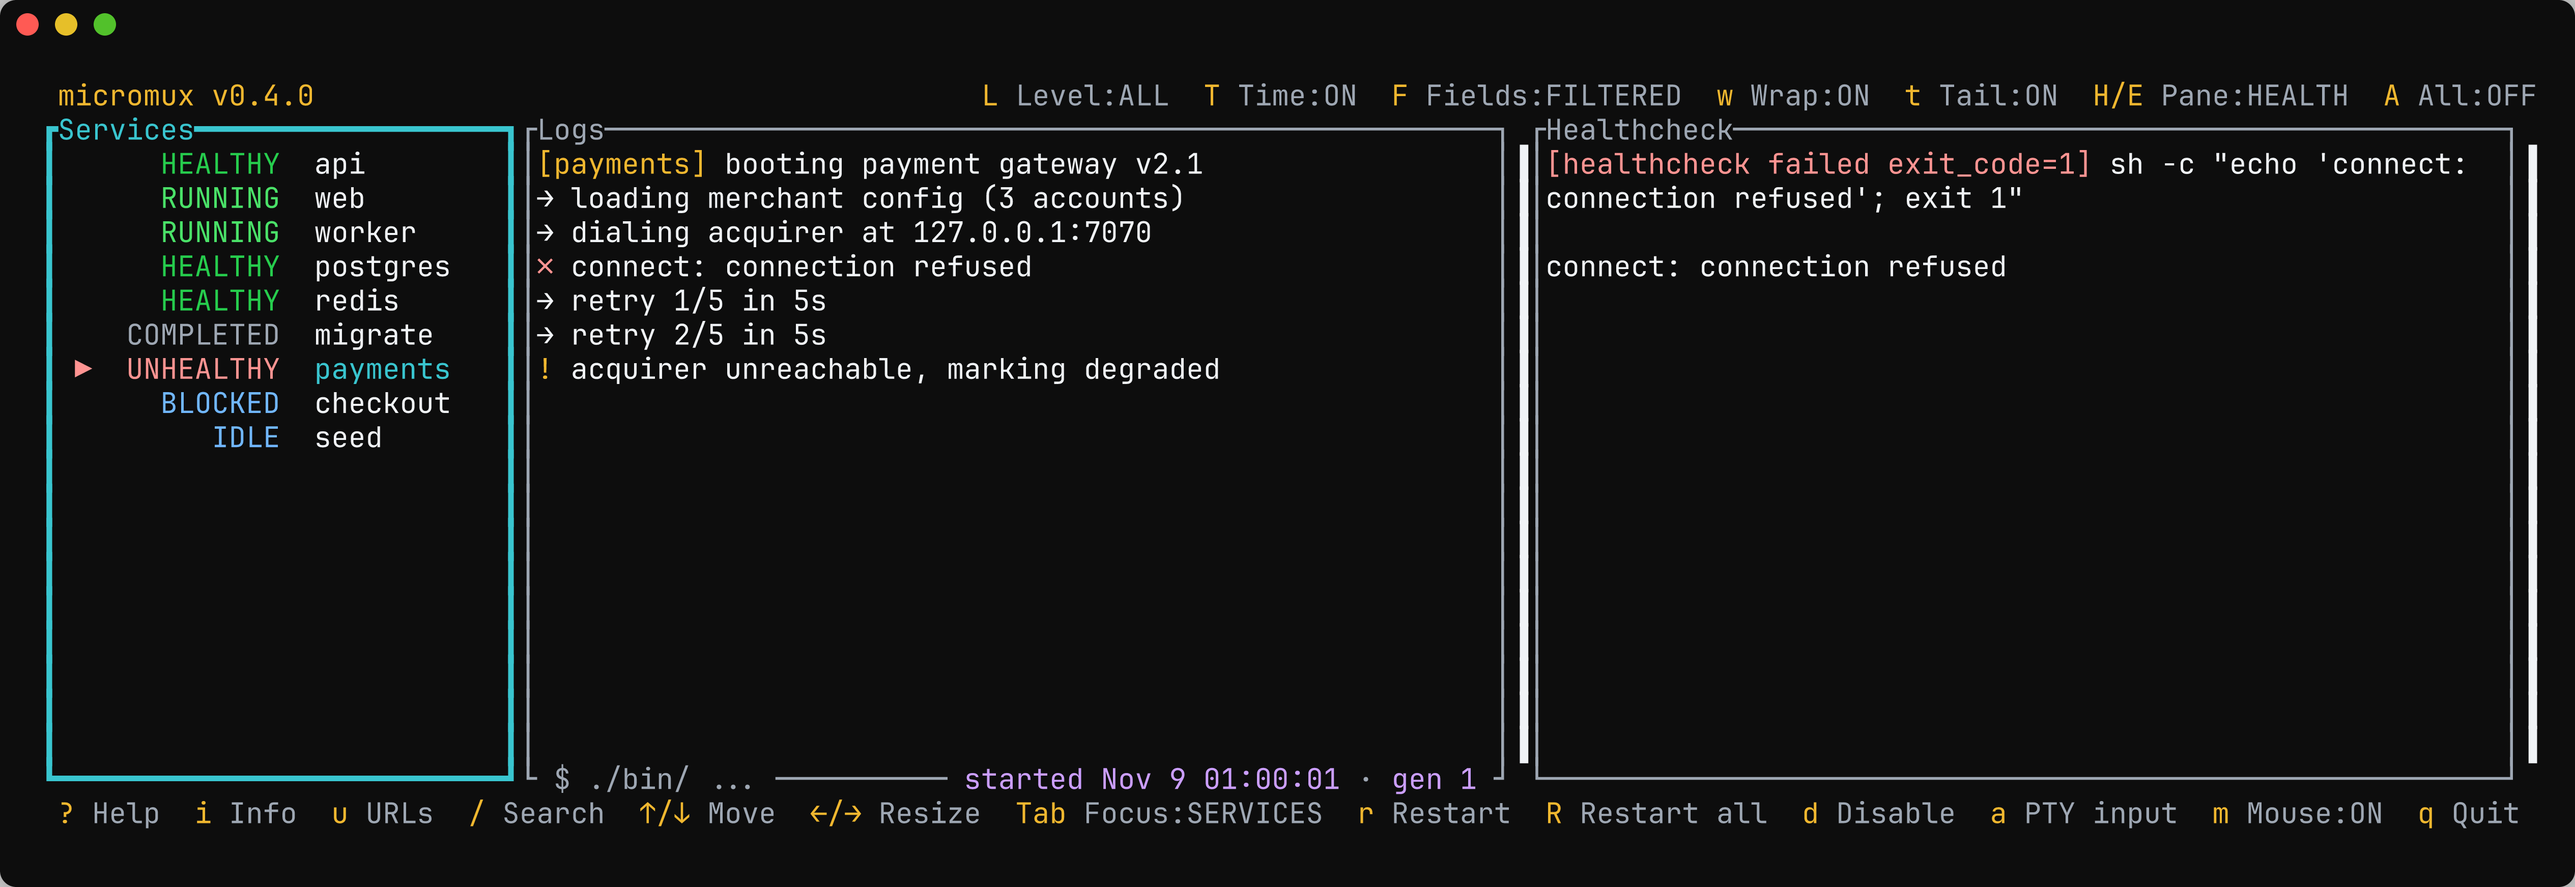
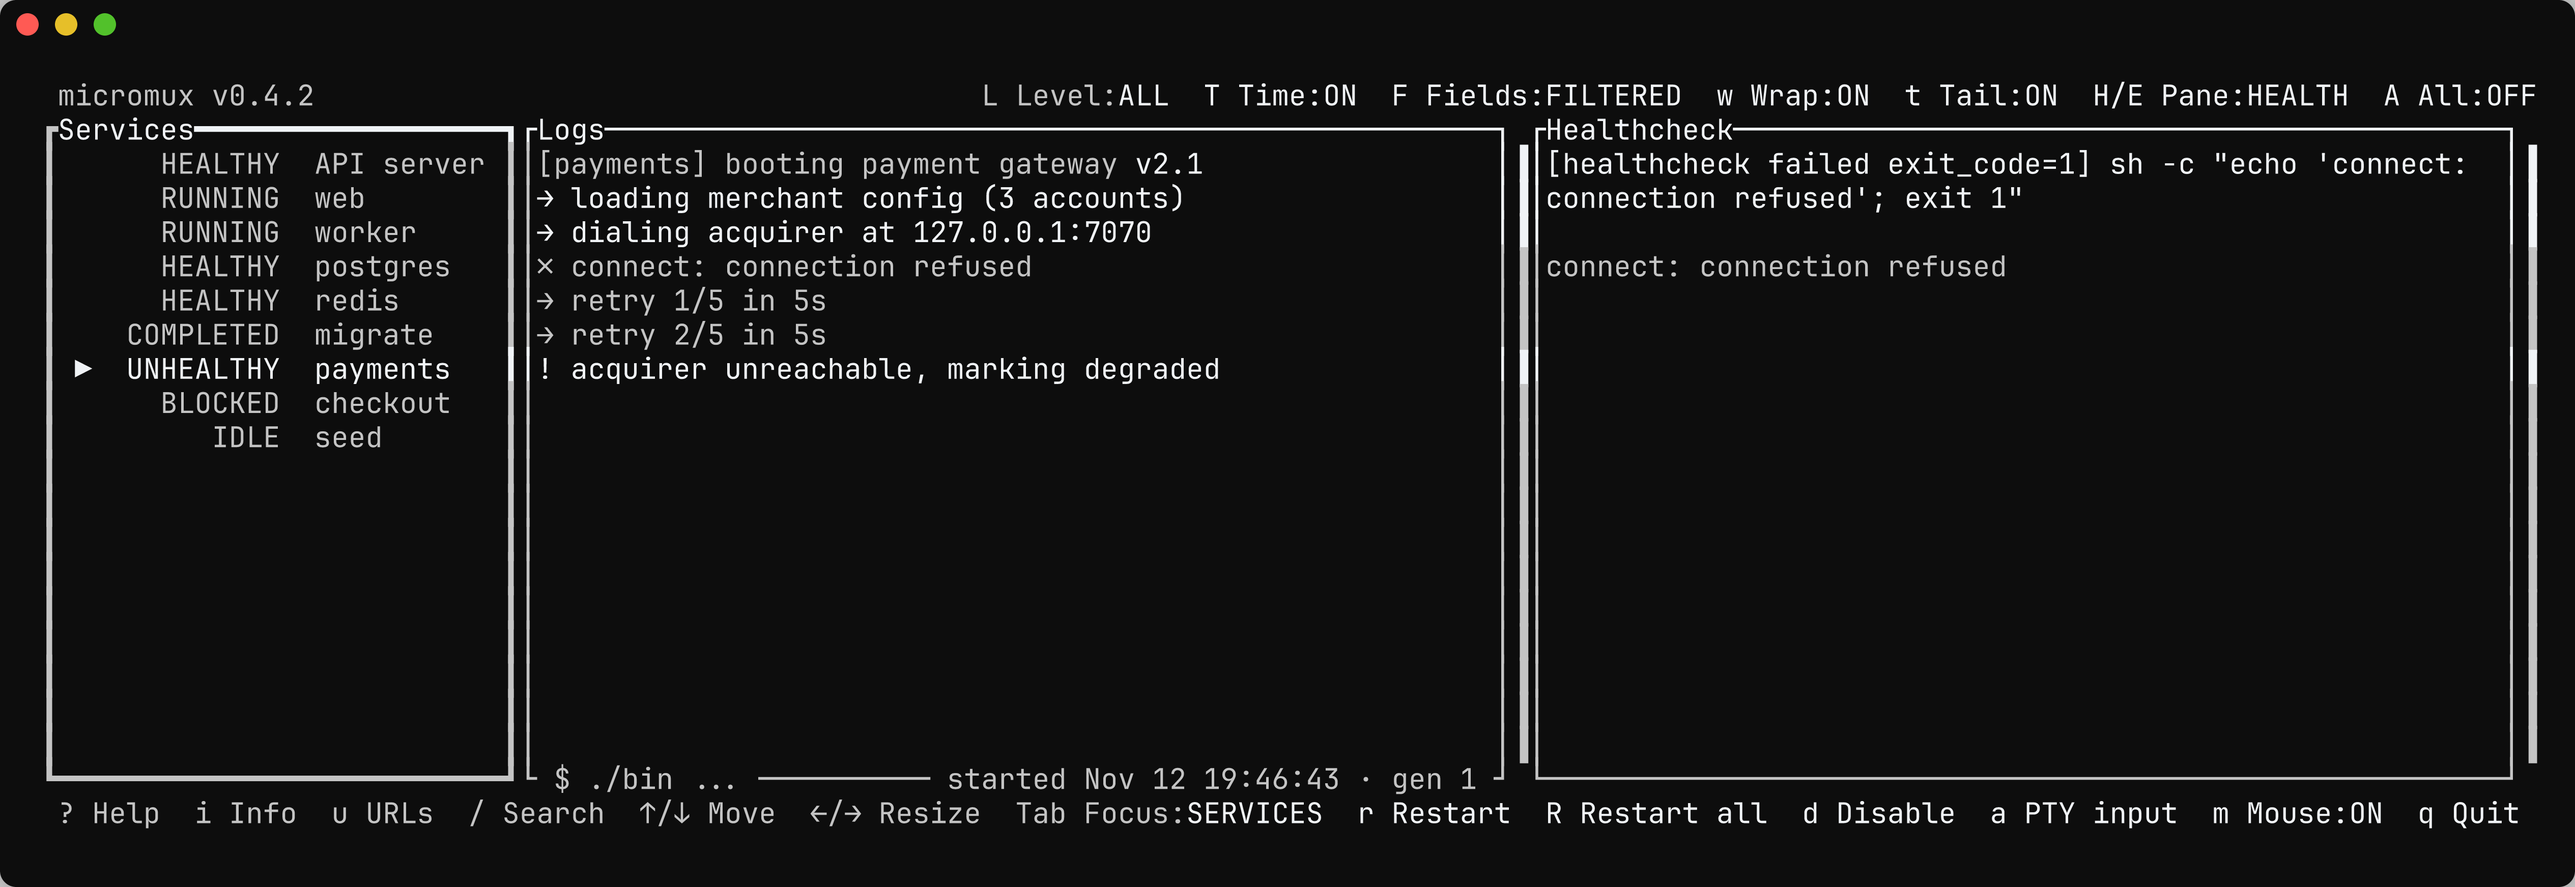
fix(tui): render configured service display names

diff --git a/crates/micromux-tui/src/all_logs/tests.rs b/crates/micromux-tui/src/all_logs/tests.rs
@@ -367,6 +367,99 @@ fn tags_pad_names_to_one_width_and_cut_long_ones_in_the_middle() {
 }
 
 #[test]
+fn display_names_change_tags_without_changing_service_identity_or_merge_order() {
+    let mut services = [
+        service("api", &[(1, 100, "api line")]),
+        service("web", &[(1, 100, "web line")]),
+    ];
+    let [api, web] = &mut services;
+    api.snapshot.name = "Zulu (API)".to_string();
+    web.snapshot.name = "Alpha".to_string();
+    let all_logs = built(&services);
+
+    // Equal timestamps still sort by ID, and display-name widths determine the padding.
+    assert_eq!(
+        lines(&all_logs),
+        ["Zulu (API) │ api line", "Alpha      │ web line"]
+    );
+    assert_eq!(all_logs.names, ["api", "web"]);
+
+    // Identical display names do not merge two services into one identity.
+    let [api, web] = &mut services;
+    api.snapshot.name = "Worker".to_string();
+    web.snapshot.name = "Worker".to_string();
+    assert_eq!(
+        lines(&built(&services)),
+        ["Worker │ api line", "Worker │ web line"]
+    );
+}
+
+#[tokio::test]
+async fn service_rows_and_popups_show_display_names_and_keep_ids_available() -> eyre::Result<()> {
+    let yaml = SERVICES.replace("api:\n", "api:\n    name: API (local)\n");
+    let (mut app, _runner) = app_and_runner(&yaml)?;
+    let shown = screen(&draw(&mut app));
+    assert!(
+        row_text(&draw(&mut app), 2).contains("API (local)"),
+        "{shown}"
+    );
+    assert!(row_text(&draw(&mut app), 3).contains("web"), "{shown}");
+
+    press(&mut app, KeyCode::Char('j'));
+    let frame = draw(&mut app);
+    assert!(row_text(&frame, 2).contains("API (local)"));
+    assert!(row_text(&frame, 3).contains("web"));
+    press(&mut app, KeyCode::Char('k'));
+    press(&mut app, KeyCode::Char('i'));
+    let shown = screen(&draw(&mut app));
+    assert!(shown.contains("Service · API (local)"), "{shown}");
+    assert!(
+        shown
+            .lines()
+            .any(|line| line.contains("ID") && line.contains("api")),
+        "{shown}"
+    );
+    press(&mut app, KeyCode::Esc);
+    press(&mut app, KeyCode::Char('L'));
+    let shown = screen(&draw(&mut app));
+    assert!(shown.contains("Level · API (local)"), "{shown}");
+    assert_eq!(
+        app.state
+            .current_service()
+            .map(|service| service.snapshot.id.as_str()),
+        Some("api")
+    );
+    Ok(())
+}
+
+#[tokio::test]
+async fn status_rename_refreshes_retained_combined_log_tags() -> eyre::Result<()> {
+    let (mut app, _runner) = app_and_runner(SERVICES)?;
+    press(&mut app, KeyCode::Char('A'));
+    set_lines(&mut app, 0, &[(1, 100, "retained line")])?;
+    assert!(screen(&draw(&mut app)).contains("api │ retained line"));
+
+    let yaml = SERVICES.replace("api:\n", "api:\n    name: API (renamed)\n");
+    let (renamed, _renamed_runner) = app_and_runner(&yaml)?;
+    app.source = renamed.source;
+    app.apply_change(&micromux::SessionChange {
+        service_id: "api".to_string(),
+        kind: micromux::ChangeKind::Status,
+    });
+
+    let shown = screen(&draw(&mut app));
+    assert!(shown.contains("API (renamed) │ retained line"), "{shown}");
+    assert!(!shown.contains("api │ retained line"), "{shown}");
+    assert_eq!(
+        app.state
+            .current_service()
+            .map(|service| service.snapshot.id.as_str()),
+        Some("api")
+    );
+    Ok(())
+}
+
+#[test]
 fn every_line_of_a_record_is_tagged_and_no_color_bleeds_into_the_next_record() {
     let services = [
         // A live screen is one record of several lines, and this one leaves red set.

diff --git a/crates/micromux-tui/src/render.rs b/crates/micromux-tui/src/render.rs
@@ -1019,6 +1019,9 @@ fn service_info_rows(
     );
 
     let mut rows = info_rows("State", vec![Line::from(state)]);
+    if snapshot.name != snapshot.id {
+        rows.extend(info_rows("ID", vec![snapshot.id.clone()]));
+    }
     if snapshot.config_stale {
         rows.extend(info_rows(
             "Config",
@@ -2287,9 +2290,9 @@ impl App {
                     " ".into(),
                     origin.fg(Color::DarkGray),
                     if index == self.state.selected_service {
-                        service.snapshot.id.as_str().fg(FOCUS_COLOR).bold()
+                        service.snapshot.name.as_str().fg(FOCUS_COLOR).bold()
                     } else {
-                        service.snapshot.id.as_str().into()
+                        service.snapshot.name.as_str().into()
                     },
                 ]);
 
@@ -2471,12 +2474,12 @@ impl App {
         let Some(picker) = &self.level_picker else {
             return;
         };
-        let current = self
+        let service = self
             .state
             .services
             .iter()
-            .find(|service| service.snapshot.id == picker.service_id)
-            .map(crate::state::Service::min_level);
+            .find(|service| service.snapshot.id == picker.service_id);
+        let current = service.map(crate::state::Service::min_level);
         let items = crate::level::LEVEL_CHOICES
             .iter()
             .map(|choice| {
@@ -2489,7 +2492,10 @@ impl App {
             })
             .collect::<Vec<_>>();
 
-        let title = format!(" Level · {} ", picker.service_id);
+        let name = service.map_or(picker.service_id.as_str(), |service| {
+            service.snapshot.name.as_str()
+        });
+        let title = format!(" Level · {name} ");
         let hint = " ↵ select · Esc cancel ";
         let widest_item = items.iter().map(ListItem::width).max().unwrap_or_default();
         let content_width = title
@@ -2535,7 +2541,7 @@ impl App {
                 };
                 let attempts = self.source.healthchecks(&service.snapshot.id);
                 (
-                    format!(" Service · {} ", service.snapshot.id),
+                    format!(" Service · {} ", service.snapshot.name),
                     service_info_rows(
                         &service.snapshot,
                         &|id| {

diff --git a/crates/micromux-tui/src/all_logs/mod.rs b/crates/micromux-tui/src/all_logs/mod.rs
@@ -128,14 +128,14 @@ impl AllLogs {
         let names = &self.names;
         let name_width = services
             .iter()
-            .map(|service| Span::raw(service.snapshot.id.as_str()).width())
+            .map(|service| Span::raw(service.snapshot.name.as_str()).width())
             .max()
             .unwrap_or_default()
             .min(MAX_TAG_NAME_WIDTH);
         self.tags = services
             .iter()
             .zip(numbers)
-            .map(|(service, number)| (*number, tag(&service.snapshot.id, *number, name_width)))
+            .map(|(service, number)| (*number, tag(&service.snapshot.name, *number, name_width)))
             .collect();
         let records = merge(sources(services, numbers, |_| 0)).collect::<Vec<_>>();
         self.ordered = records.windows(2).all(|pair| match pair {
@@ -283,15 +283,15 @@ fn order(names: &[String], key: RecordKey) -> Order<'_> {
     }
 }
 
-/// The spans that lead each line of the service `id` with `number`: its name in its color,
+/// The spans that lead each line of service `number`: its display name in its color,
 /// padded or cut to `name_width` columns, and a separator.
-fn tag(id: &str, number: u32, name_width: usize) -> Vec<Span<'static>> {
+fn tag(name: &str, number: u32, name_width: usize) -> Vec<Span<'static>> {
     let color = usize::try_from(number)
         .ok()
         .and_then(|number| TAG_COLORS.get(number % TAG_COLORS.len()))
         .copied()
         .unwrap_or(Color::Cyan);
-    let name = fit_name(id, name_width);
+    let name = fit_name(name, name_width);
     let padding = " ".repeat(name_width.saturating_sub(Span::raw(name.as_str()).width()));
     vec![
         format!("{name}{padding}").fg(color).bold(),

diff --git a/crates/micromux-tui/src/lib.rs b/crates/micromux-tui/src/lib.rs
@@ -688,7 +688,11 @@ impl App {
                 if let Some(snapshot) = self.source.service(&change.service_id)
                     && let Some(service) = self.service_mut(&change.service_id)
                 {
+                    let renamed = service.snapshot.name != snapshot.name;
                     service.snapshot = snapshot;
+                    if renamed && let Some(all_logs) = &mut self.state.all_logs {
+                        all_logs.dirty = true;
+                    }
                 }
             }
             ChangeKind::Logs => {

diff --git a/docs/content/docs/tui.md b/docs/content/docs/tui.md
@@ -22,6 +22,8 @@ The pane with the focus, which the movement keys act on, has a thick frame in an
 
 The header's right side lists the view keys, which change only what the panes show, with their current state. With [routes]({{< relref "configuration/sessions.md" >}}#hostnames), the Logs pane's title lists the browser URLs of the selected service, the routes whose port is in its `ports` list, as many as fit, then a count of the rest; the header says so in red when the shared proxy does not serve them right now. The footer lists the keys that move around and act on services. Both wrap onto extra rows when the terminal is too narrow.
 
+The services list, combined-log tags, and service popups show each service's configured `name`, or its ID when no name is set. The `i` popup also shows the ID when it differs from the display name; commands and control requests always use that ID.
+
 | Key | Action |
 |---|---|
 | `j` / `k`, `↓` / `↑` | Move the selection |

diff --git a/CHANGELOG.md b/CHANGELOG.md
@@ -2,6 +2,9 @@
 
 ## Unreleased
 
+- **The TUI shows configured service display names.** The sidebar, combined-log tags, and popups
+  use `name`; the service details retain the ID used by commands and the control API.
+
 - **Override a session's proxy port without editing the project config.** Use `--proxy-port` on
   `micromux` or `micromux serve`, or set `MICROMUX_PROXY_PORT`.
 
